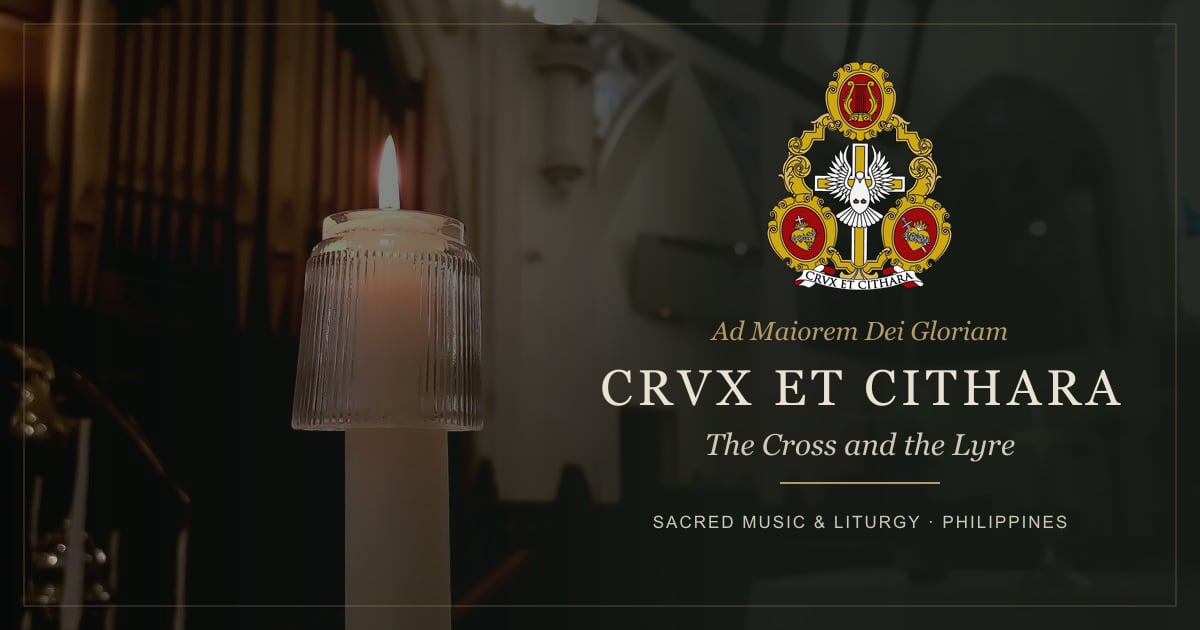
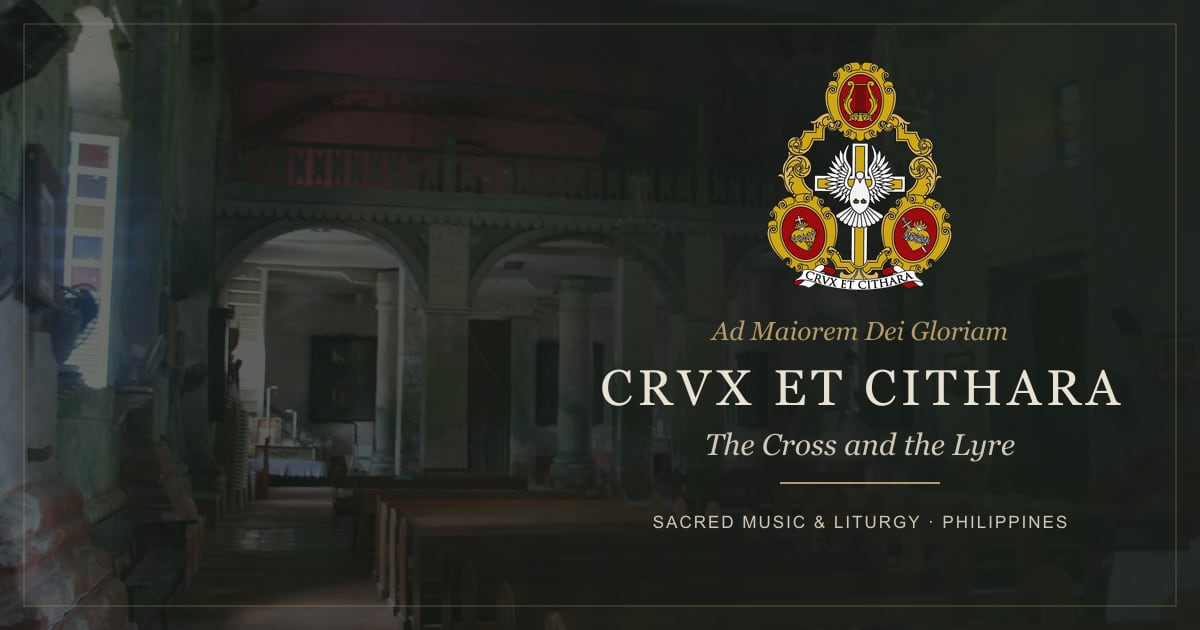
Share card: candidate 13 (Baclayon nave) instead of 12, per owner
Darkened under a Darkest Forest scrim before the crest/name overlay.
CC BY-SA 4.0: credited in CREDITS.md and /credits as 'OG share image'.

diff --git a/src/data/credits.ts b/src/data/credits.ts
@@ -37,10 +37,10 @@ export const CREDITS = [
     modified: 'Resized and cropped to 3:2 (still CC BY-SA 4.0).',
   },
   {
-    n: 12, usedFor: 'Social share card', file: 'Nave_Altar_Candle_2.jpg',
-    credit: 'FatherAdamBrown, CC0, via Wikimedia Commons', license: 'CC0', required: false,
-    page: 'https://commons.wikimedia.org/wiki/File:Nave_Altar_Candle_2.jpg',
-    licenseUrl: 'http://creativecommons.org/publicdomain/zero/1.0/deed.en',
-    modified: 'Cropped to 1200×630, darkened, with the crest and name added.',
+    n: 13, usedFor: 'OG share image', file: 'Interior,_Baclayon_church,_Bohol_03.jpg',
+    credit: 'John Martin PERRY, CC BY-SA 4.0, via Wikimedia Commons', license: 'CC BY-SA 4.0', required: true,
+    page: 'https://commons.wikimedia.org/wiki/File:Interior,_Baclayon_church,_Bohol_03.jpg',
+    licenseUrl: 'https://creativecommons.org/licenses/by-sa/4.0',
+    modified: 'Cropped to 1200×630, darkened, with the crest and name added (still CC BY-SA 4.0).',
   },
 ];

diff --git a/CREDITS.md b/CREDITS.md
@@ -12,7 +12,7 @@ The same list is shown on the site at `/credits` (source: `src/data/credits.ts`;
 | 7 | Home "About" and About Us "Our Story" | Church_of_Saints_Apostles_Peter_and_Paul,_Župrany_-_choir_loft_and_pipe_organ.jpg | Voctor12 | [CC BY-SA 4.0](https://creativecommons.org/licenses/by-sa/4.0) | https://commons.wikimedia.org/wiki/File:Church_of_Saints_Apostles_Peter_and_Paul,_%C5%BDuprany_-_choir_loft_and_pipe_organ.jpg |
 | 10 | Our Ministry, Traditional Latin Mass | Holy_Rosary_Church_Indianapolis_19_July_2024_1.jpg | Maximilian775 | [CC BY 4.0](https://creativecommons.org/licenses/by/4.0) | https://commons.wikimedia.org/wiki/File:Holy_Rosary_Church_Indianapolis_19_July_2024_1.jpg |
 | 11 | Our Ministry, Novus Ordo | All_Hallows_Church_Tottenham_Haringey_England_-_nave_altar.jpg | Acabashi | [CC BY-SA 4.0](https://creativecommons.org/licenses/by-sa/4.0) | https://commons.wikimedia.org/wiki/File:All_Hallows_Church_Tottenham_Haringey_England_-_nave_altar.jpg |
-| 12 | Social share card | Nave_Altar_Candle_2.jpg | FatherAdamBrown | CC0 (credit not required) | https://commons.wikimedia.org/wiki/File:Nave_Altar_Candle_2.jpg |
+| 13 | OG share image | Interior,_Baclayon_church,_Bohol_03.jpg | John Martin PERRY | [CC BY-SA 4.0](https://creativecommons.org/licenses/by-sa/4.0) | https://commons.wikimedia.org/wiki/File:Interior,_Baclayon_church,_Bohol_03.jpg |
 
 Credit lines as displayed:
 
@@ -21,7 +21,7 @@ Credit lines as displayed:
 - #7: "Voctor12, CC BY-SA 4.0, via Wikimedia Commons" (required; linked to the file page and the license)
 - #10: "Maximilian775, CC BY 4.0, via Wikimedia Commons" (required; linked to the file page and the license)
 - #11: "Acabashi, CC BY-SA 4.0, via Wikimedia Commons" (required; linked to the file page and the license)
-- #12: "FatherAdamBrown, CC0, via Wikimedia Commons" (courtesy)
+- #13: "John Martin PERRY, CC BY-SA 4.0, via Wikimedia Commons" (required; linked to the file page and the license). The share card itself carries no credit text; this entry and /credits are the attribution.
 
 Modified:
 
@@ -30,7 +30,7 @@ Modified:
 - #7: resized and cropped to 4:3 (still CC BY-SA 4.0).
 - #10: resized and cropped to 3:2.
 - #11: resized and cropped to 3:2 (still CC BY-SA 4.0).
-- #12: cropped to 1200×630, darkened, with the crest and name added.
+- #13: cropped to 1200×630, darkened, with the crest and name added (still CC BY-SA 4.0).
 
 Every image is also stripped of embedded metadata (EXIF, including GPS).
 
